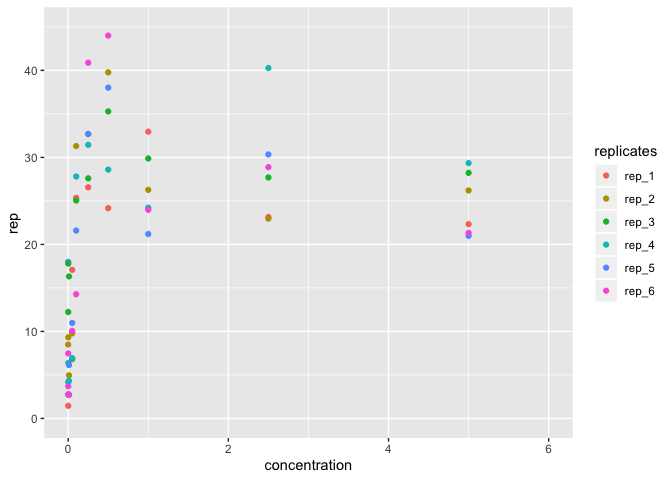
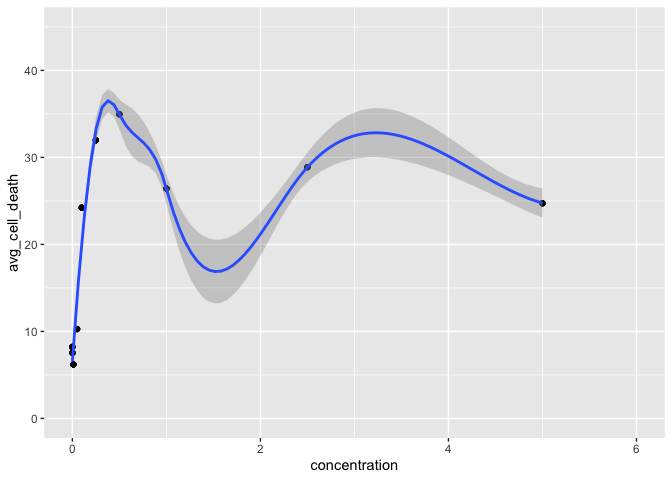
done

diff --git a/HW_1.md b/HW_1.md
@@ -4,7 +4,7 @@ Lizbeth Gomez & Nastasia Gernat
 2/9/2020
 
 ``` r
-library(drc) ## for dose-response logistic regression
+library(drc) 
 ```
 
     ## Loading required package: MASS
@@ -24,7 +24,7 @@ library(drc) ## for dose-response logistic regression
     ##     gaussian, getInitial
 
 ``` r
-library(tidyverse) #needs to be listed after drc otherwise you run into issues
+library(tidyverse) 
 ```
 
     ## ── Attaching packages ───────────────────────────────────────────────────── tidyverse 1.3.0 ──
@@ -41,7 +41,7 @@ library(tidyverse) #needs to be listed after drc otherwise you run into issues
 
 ``` r
 library(dplyr)
-library(janitor) ## to make column names have the same format
+library(janitor) 
 ```
 
     ## 
@@ -54,7 +54,7 @@ library(janitor) ## to make column names have the same format
 ``` r
 library(ggplot2)
 library(readxl)
-library(raster) ## to compute the coefficient of variation
+library(raster) 
 ```
 
     ## Loading required package: sp
@@ -98,17 +98,14 @@ summary(cyto_death)
     ##  Median :26.014   Median :21.094   Median :17.799   Median :24.481  
     ##  Mean   :20.353   Mean   :20.273   Mean   :19.731   Mean   :20.345  
     ##  3rd Qu.:29.160   3rd Qu.:28.153   3rd Qu.:27.656   3rd Qu.:28.268  
-    ##  Max.   :40.276   Max.   :38.021   Max.   :44.000   Max.   :34.972
-
-``` r
-cyto_death_plot <- cyto_death %>% 
-  ggplot(aes(x = concentration, y = avg_cell_death)) +
-  ylim(0, 45) + xlim(0,6) +
-  geom_point(aes(color = concentration)) 
-cyto_death_plot
-```
-
-![](HW_1_files/figure-gfm/unnamed-chunk-2-1.png)<!-- -->
+    ##  Max.   :40.276   Max.   :38.021   Max.   :44.000   Max.   :34.972  
+    ##     from_ctr    
+    ##  Min.   :  1.0  
+    ##  1st Qu.:100.0  
+    ##  Median :297.9  
+    ##  Mean   :237.6  
+    ##  3rd Qu.:344.0  
+    ##  Max.   :425.5
 
 ``` r
 cyto_tidy_death = 
@@ -121,23 +118,64 @@ cyto_tidy_death =
 summary(cyto_tidy_death)
 ```
 
-    ##  concentration    avg_cell_death    replicates             rep        
-    ##  Min.   :0.0000   Min.   : 6.204   Length:60          Min.   : 1.457  
-    ##  1st Qu.:0.0100   1st Qu.: 8.219   Class :character   1st Qu.: 9.117  
-    ##  Median :0.1750   Median :24.481   Mode  :character   Median :22.648  
-    ##  Mean   :0.9411   Mean   :20.345                      Mean   :20.345  
-    ##  3rd Qu.:1.0000   3rd Qu.:28.884                      3rd Qu.:28.666  
-    ##  Max.   :5.0000   Max.   :34.972                      Max.   :44.000
+    ##  concentration    avg_cell_death      from_ctr       replicates       
+    ##  Min.   :0.0000   Min.   : 6.204   Min.   :  1.00   Length:60         
+    ##  1st Qu.:0.0100   1st Qu.: 8.219   1st Qu.: 91.71   Class :character  
+    ##  Median :0.1750   Median :24.481   Median :297.88   Mode  :character  
+    ##  Mean   :0.9411   Mean   :20.345   Mean   :237.65                     
+    ##  3rd Qu.:1.0000   3rd Qu.:28.884   3rd Qu.:351.45                     
+    ##  Max.   :5.0000   Max.   :34.972   Max.   :425.52                     
+    ##       rep        
+    ##  Min.   : 1.457  
+    ##  1st Qu.: 9.117  
+    ##  Median :22.648  
+    ##  Mean   :20.345  
+    ##  3rd Qu.:28.666  
+    ##  Max.   :44.000
 
 ``` r
 cyto_death_plot <- cyto_tidy_death %>% 
   ggplot(aes(x = concentration, y = rep)) +
   ylim(0, 45) + xlim(0,6) +
-  geom_point(aes(color = replicates)) 
+  geom_point(aes(color = replicates)) +
+  geom_smooth(method= "auto", se= TRUE) 
 cyto_death_plot
 ```
 
+    ## `geom_smooth()` using method = 'loess' and formula 'y ~ x'
+
+![](HW_1_files/figure-gfm/unnamed-chunk-2-1.png)<!-- -->
+
+``` r
+#Absolute percent cell death per concentration by replication
+
+cyto_death_plot_2 <- cyto_tidy_death %>% 
+  ggplot(aes(x = concentration, y = avg_cell_death)) +
+  ylim(0, 45) + xlim(0,6) +
+  geom_point() +
+  geom_smooth(method= "auto", se= TRUE) 
+cyto_death_plot_2
+```
+
+    ## `geom_smooth()` using method = 'loess' and formula 'y ~ x'
+
 ![](HW_1_files/figure-gfm/unnamed-chunk-2-2.png)<!-- -->
+
+``` r
+#Calculation of percent death from control
+cyto_death_plot_3 <- cyto_tidy_death %>% 
+  ggplot(aes(x = concentration, y = from_ctr)) +
+  ylim(0, 450) + xlim(0,6) +
+  geom_point() +
+  geom_smooth(method= "auto", se= TRUE) 
+cyto_death_plot_3
+```
+
+    ## `geom_smooth()` using method = 'loess' and formula 'y ~ x'
+
+    ## Warning: Removed 1 rows containing missing values (geom_smooth).
+
+![](HW_1_files/figure-gfm/unnamed-chunk-2-3.png)<!-- -->
 
 ``` r
 cv_mean <- cyto_tidy_death %>%
@@ -166,7 +204,7 @@ regress_cyto<- drm(rep ~concentration, data = cyto_tidy_death, fct = LL.4())
 
 
 regress_cyto <- drm(rep ~concentration, data = cyto_tidy_death, fct = LL.3(names = c("Slope", "Upper Limit", "LC50" )))
-summary(regress_cyto) 
+summary(regress_cyto)
 ```
 
     ## 
@@ -184,3 +222,35 @@ summary(regress_cyto)
     ## Residual standard error:
     ## 
     ##  7.104517 (57 degrees of freedom)
+
+``` r
+#Compute 95% CI for my IC50
+ED(regress_cyto, 50, interval = "delta")%>%
+ knitr::kable()
+```
+
+    ## 
+    ## Estimated effective doses
+    ## 
+    ##         Estimate Std. Error     Lower     Upper
+    ## e:1:50 0.0605162  0.0073582 0.0457815 0.0752508
+
+|        |  Estimate | Std. Error |     Lower |     Upper |
+| ------ | --------: | ---------: | --------: | --------: |
+| e:1:50 | 0.0605162 |  0.0073582 | 0.0457815 | 0.0752508 |
+
+``` r
+ plot(regress_cyto, xlab = "Concentration (μM)", ylab = "Death (% from control)", col = "red", main = "Dose Response Curve for Rotenone")
+```
+
+![](HW_1_files/figure-gfm/unnamed-chunk-5-1.png)<!-- -->
+
+``` r
+ modelFit(regress_cyto)
+```
+
+    ## Lack-of-fit test
+    ## 
+    ##           ModelDf    RSS Df F value p value
+    ## ANOVA          50 1482.4                   
+    ## DRC model      57 2877.0  7  6.7197  0.0000
